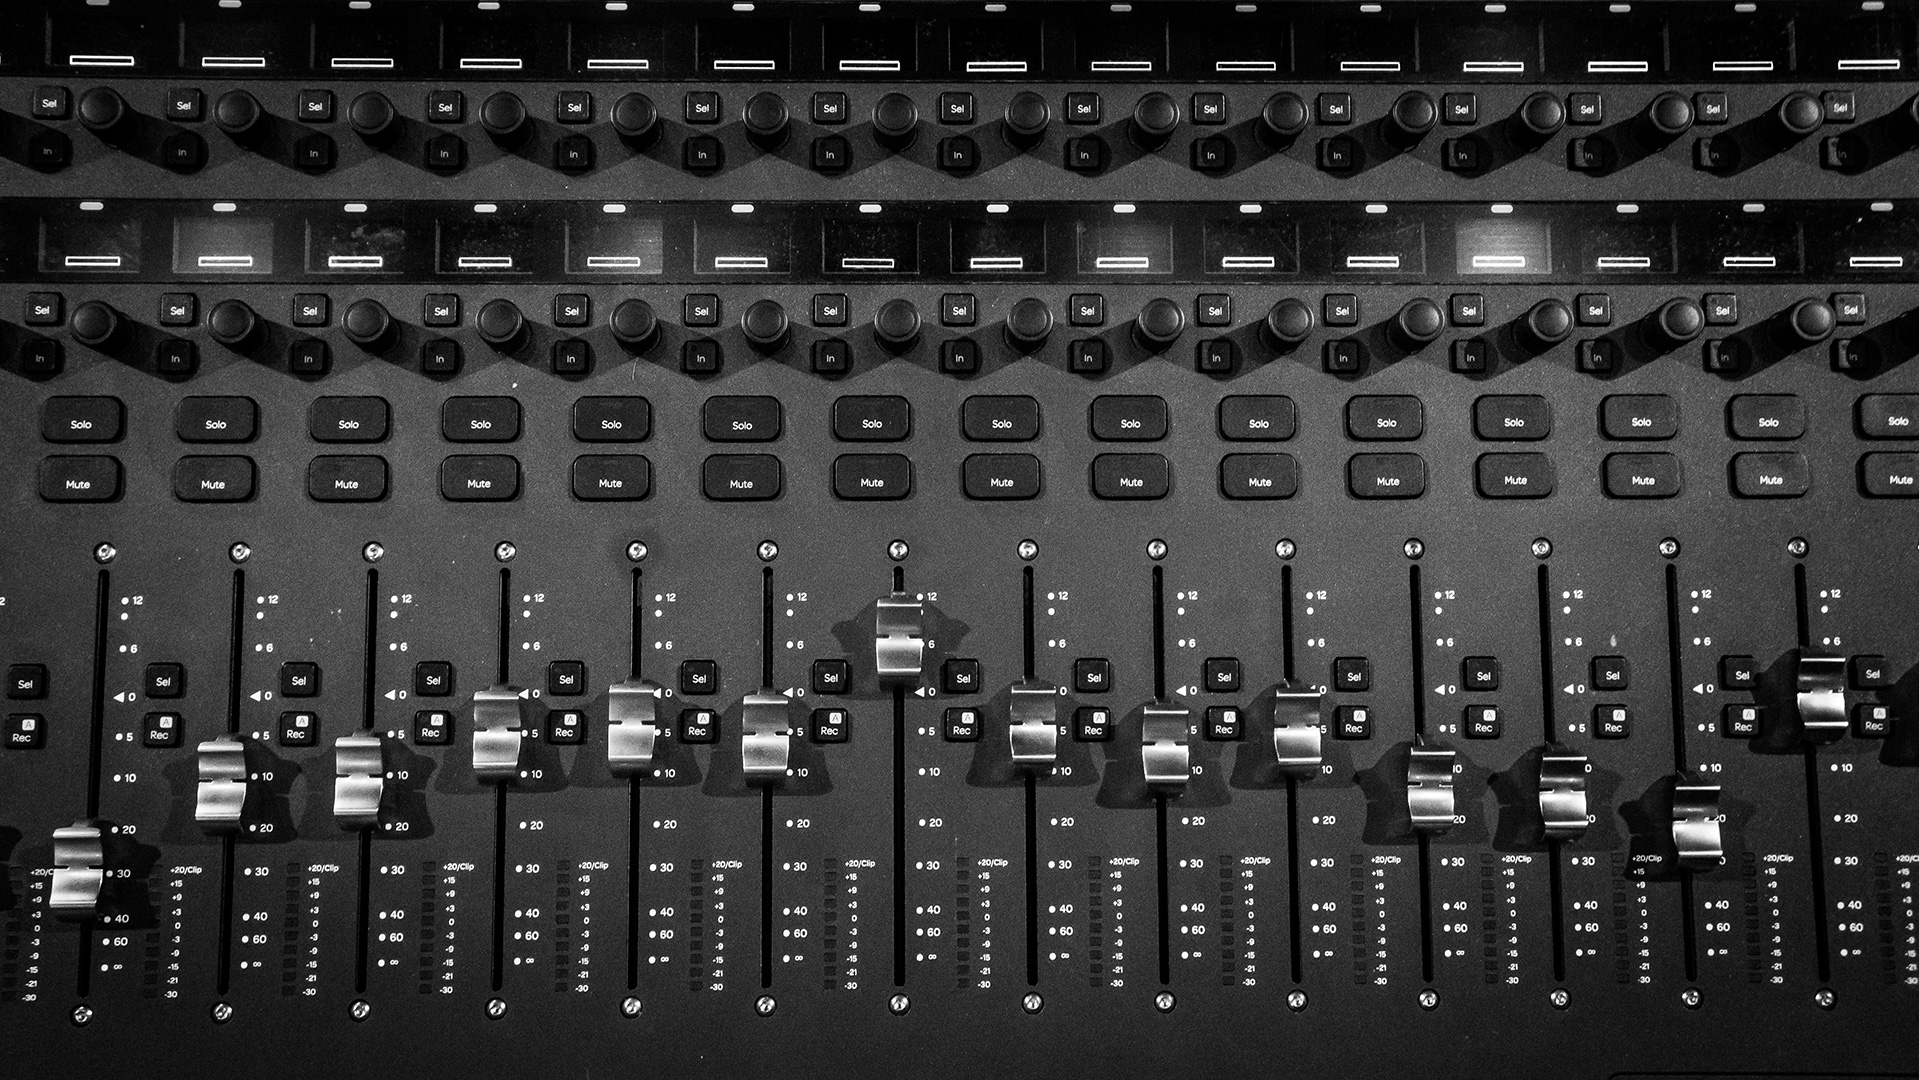
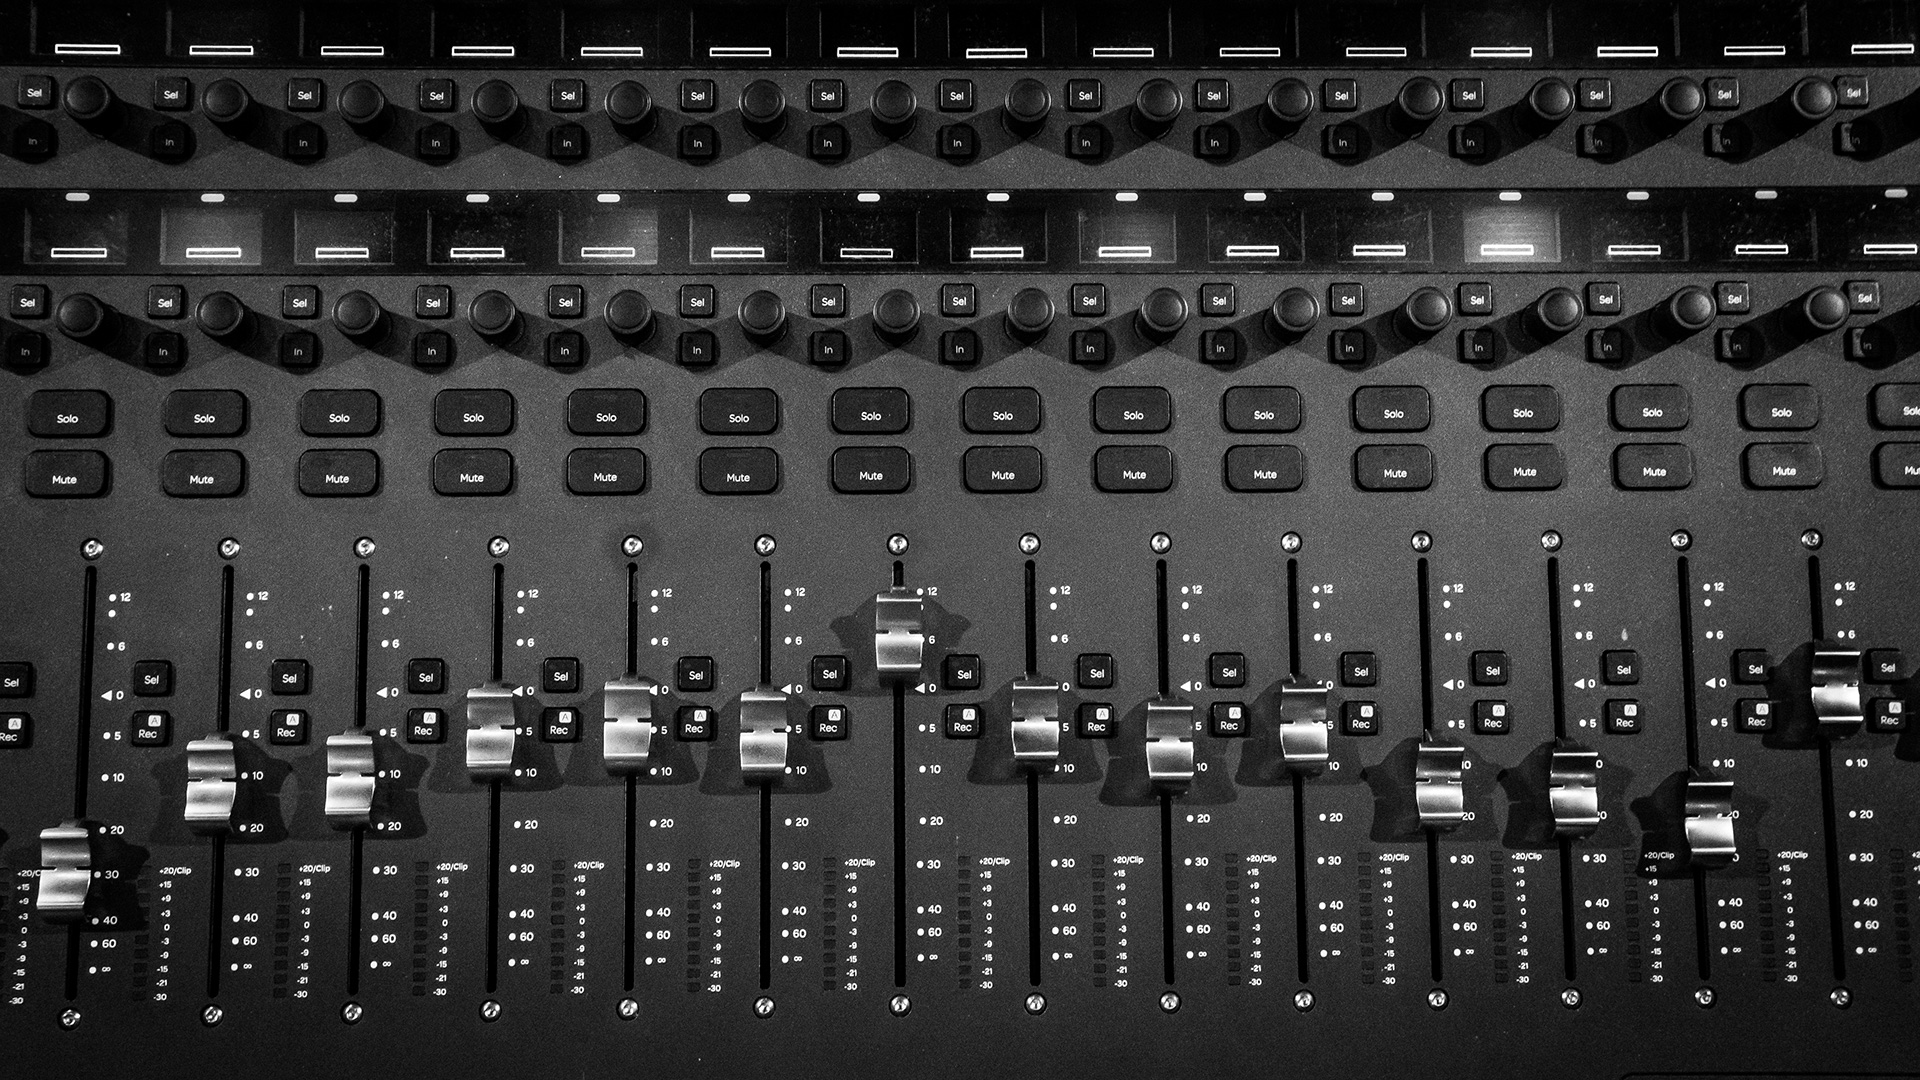
first pass complete

diff --git a/me.html b/me.html
@@ -134,7 +134,13 @@
                                         CV includes work for the likes of Tesco, Audi, The Economist, Very and Cern, as 
                                         well as children's ebooks, educational tutorials, apps, explainer videos and 
                                         phone answering systems by the hundreds! 
-                                    </article>   
+                                        
+                                    </article> 
+                                    <div class="row row-layout hidden-xs hidden-sm hidden-md">
+                                        <div class="col-xs-4 col-xs-offset-4 scroll-arrow-desktop-container">
+                                            <i class="fa fa-angle-down scroll-arrow-desktop " aria-hidden="true"></i>
+                                        </div>
+                                    </div>  
                                 </div>
                            <!-- <div class="col-xs-12 col-sm-6 col-md-4 col-lg-4 article-side-border-left"></div>-->
                         <!--</div> -->
@@ -145,11 +151,7 @@
         <!--------------------  BIO WORDING PROVIDED BY THE CLIENT -------------------------------->
                 
         
-                <div class="row row-layout hidden-xs hidden-sm hidden-md">
-                    <div class="col-xs-4 col-xs-offset-4 scroll-arrow-desktop-container">
-                        <i class="fa fa-angle-down scroll-arrow-desktop " aria-hidden="true"></i>
-                    </div>
-                </div>
+                
                     
             </section>
         </main>
@@ -157,7 +159,7 @@
             <div class="container-fluid container-fluid-layout">
                 <div class="row row-layout">
                     <div class="col-xs-12 col-sm-12 my-approach-image-container-1">
-                        <div class="my-approach-image-1" title="Photo of Laptop"></div>
+                        <div class="my-approach-image-1" title="Photo of Laptop"><div class="me-page-image-mask"></div></div>
                     </div>
                     </div>
             </div>
@@ -193,7 +195,7 @@
             <div class="container-fluid container-fluid-layout">
                 <div class="row row-layout">
                     <div class="col-xs-12 col-sm-12 my-approach-image-container-2">
-                        <div class="my-approach-image-2" title="Photo of Microphone"></div>
+                        <div class="my-approach-image-2" title="Photo of Microphone"><div class="me-page-image-mask"></div></div>
                     </div>
                 </div>
             </div>
@@ -225,7 +227,7 @@
             <div class="container-fluid container-fluid-layout">
                 <div class="row row-layout">
                     <div class="col-xs-12 col-sm-12 review-image-container-3">
-                        <div class="review-image-3" title="Photo of Editing Software"></div>
+                        <div class="review-image-3" title="Photo of Editing Software"><div class="me-page-image-mask"></div></div>
                     </div>
                 </div>
             </div>
@@ -274,7 +276,7 @@
             <div class="container-fluid container-fluid-layout">
                 <div class="row row-layout">
                     <div class="col-xs-12 col-sm-12 review-image-container-4">
-                        <div class="review-image-4" title="Photo of Editing Software Controller"></div>
+                        <div class="review-image-4" title="Photo of Editing Software Controller"><div class="me-page-image-mask"></div></div>
                     </div>
                 </div>
             </div>

diff --git a/assets/css/styles.css b/assets/css/styles.css
@@ -1207,7 +1207,12 @@
     padding-right: 0px;
 }
 
+.me-page-image-mask {
 
+    background-color: rgba(0, 0, 0, 0.33);
+    height: 100vh;
+    width: 100vw;
+}
 .my-approach-image-1 {
 
     background-image: url("../images/me-page/record-technology-equipment-microphone-mic-studio-775481-pxhere.com.1920-1080-75.jpg");
@@ -1372,16 +1377,13 @@
 
 .scroll-arrow-desktop-container {
 
-    position: absolute;
-    top: 90vh;
-    height: 5vh;
-    z-index: -1;
+    position: relative;
+    height: 50px;
+    
 }
 .scroll-arrow-desktop {
-    
-   
-    position: relative;
-    
+
+    position: relative;  
     left: 50%;
     -webkit-transform: translateX(-50%);
         -ms-transform: translateX(-50%);
@@ -1523,13 +1525,29 @@
 
 .book-me-background-image {
 
-    background-image: url("../images/book-me-page/s3-top-down-960-540.jpg");
+    background-image: url("../images/book-me-page/s3-side-on-960-540.jpg");
     background-attachment: scroll;
-    background-position: 50% 0%;
+    background-position: 20% 50%;
     background-repeat: no-repeat;
     background-size: cover;
     width: 100vw;
     height: 94.5vh;
+    opacity: 0;
+    -ms-filter: "progid:DXImageTransform.Microsoft.Alpha(Opacity=0)";
+    
+    -webkit-animation-name: fade-up;
+    
+            animation-name: fade-up;
+    -webkit-animation-delay: 0.5s;
+            animation-delay: 0.5s;
+    -webkit-animation-duration: .5s;
+            animation-duration: .5s;
+    -webkit-animation-fill-mode: forwards;
+            animation-fill-mode: forwards;
+    -webkit-animation-iteration-count: 1;
+            animation-iteration-count: 1;
+    -webkit-animation-timing-function: ease-in;
+            animation-timing-function: ease-in;
 }
 
 .book-me-background-image-mask {
@@ -1993,7 +2011,7 @@
 
     .bio-article-wording {
 
-        padding-bottom: 50px;
+        padding-bottom: 20px;
     }
     /*.article-container {
         
@@ -2059,7 +2077,7 @@
     }    
     
         .bio-section {
-           padding-top: 0px; 
+           padding-top: 25px; 
            height: 50vh;
            opacity: 0;
            -ms-filter: "progid:DXImageTransform.Microsoft.Alpha(Opacity=0)";
@@ -2193,8 +2211,8 @@
 @media (min-width: 768px) {
     .book-me-background-image {
 
-        background-image: url("../images/book-me-page/s3-top-down-1920-1080.jpg");
-        background-attachment: fixed;
+        background-image: url("../images/book-me-page/s3-side-on-1920-1080.jpg");
+        
     }
     .book-me-background-image,
     .book-me-background-image-mask {
@@ -2205,6 +2223,13 @@
 }
 
 @media (min-width: 992px) {
+
+    .book-me-background-image {
+
+       
+        background-attachment: fixed;
+        background-position: 50% 50%;
+    }
 
     .book-me-article-section-wrapper {
 
